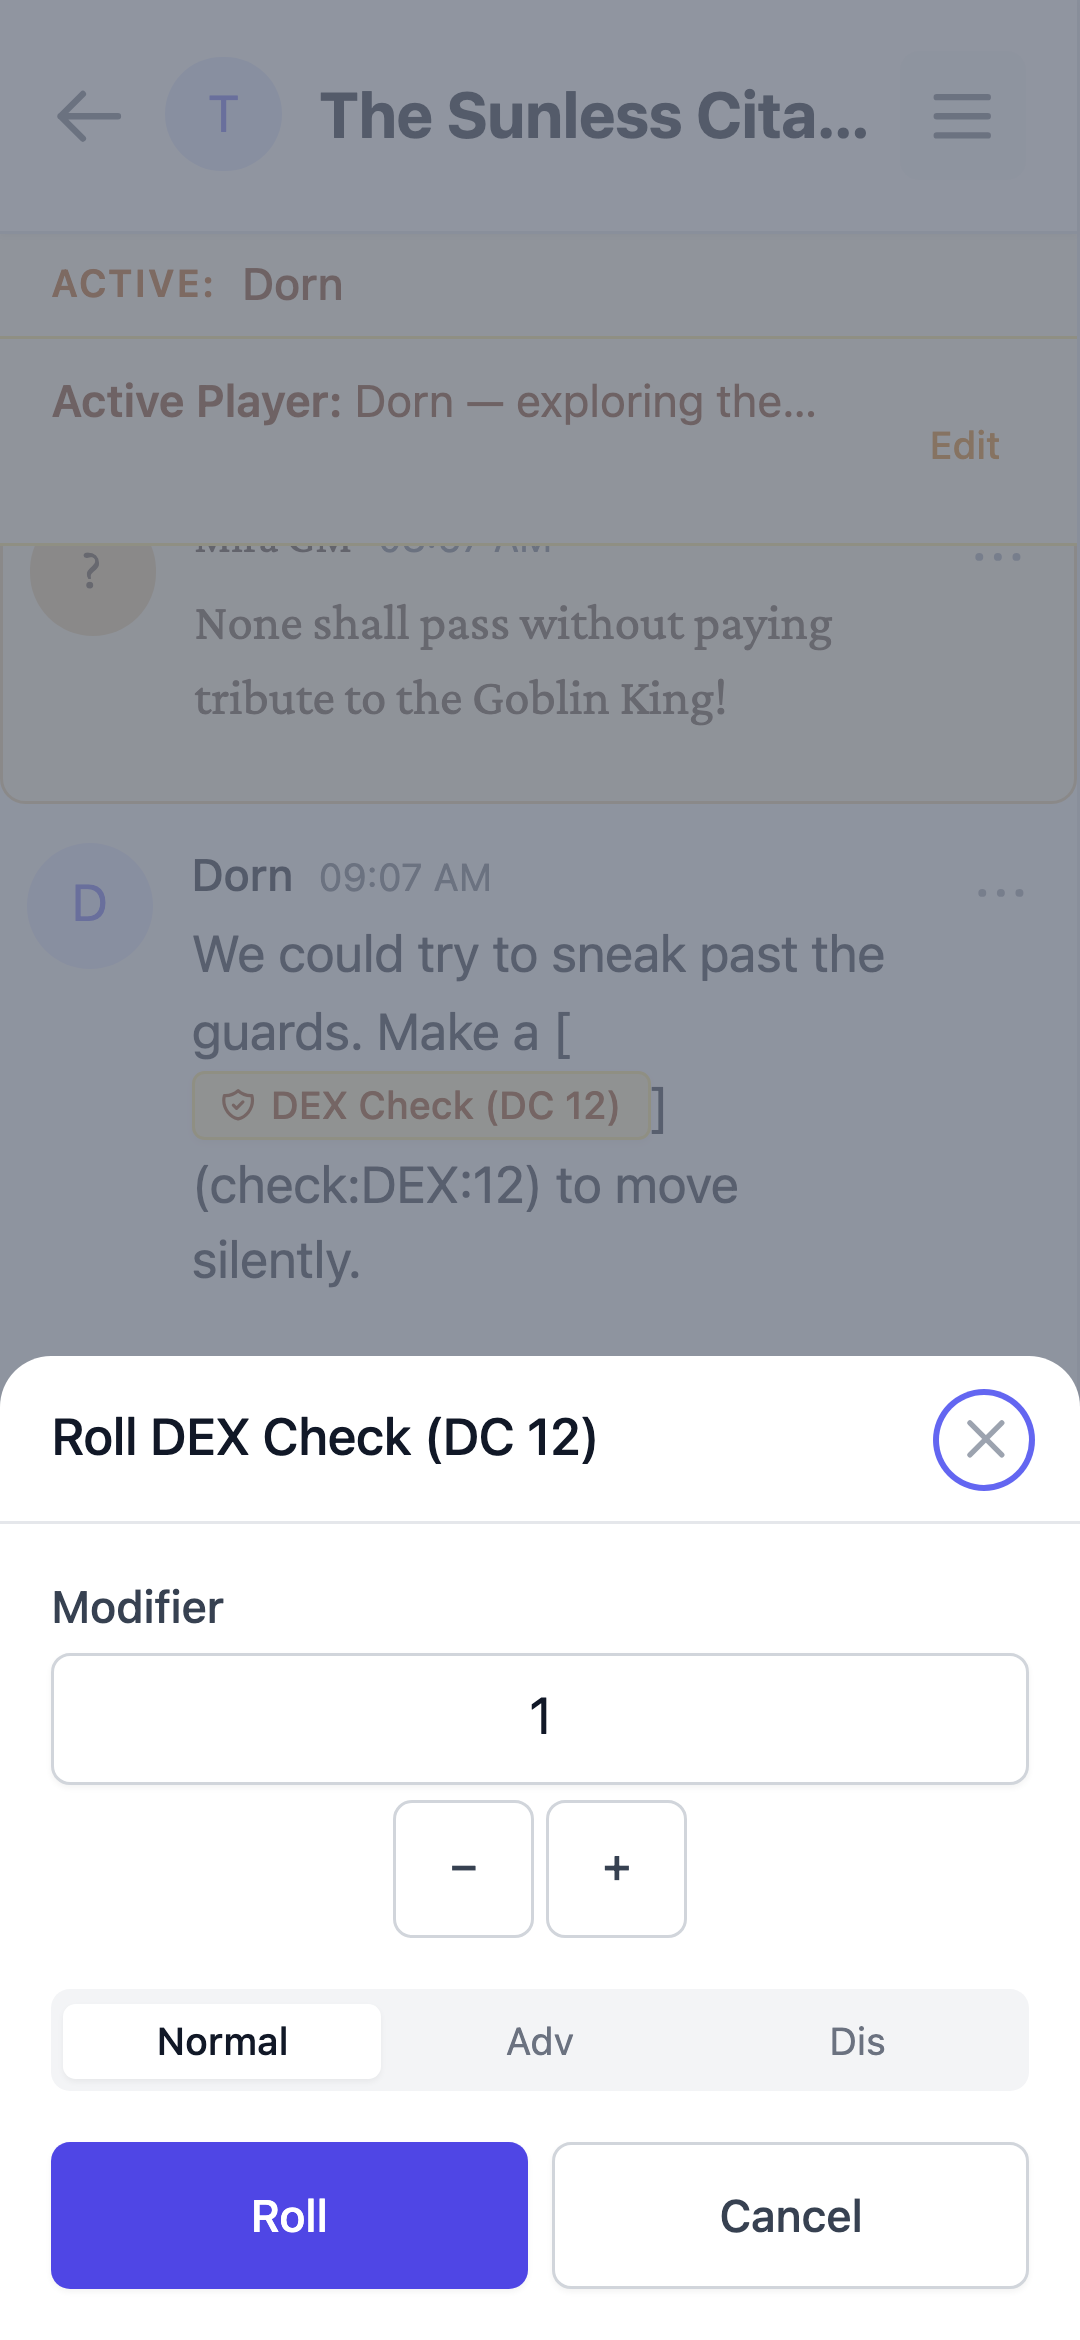
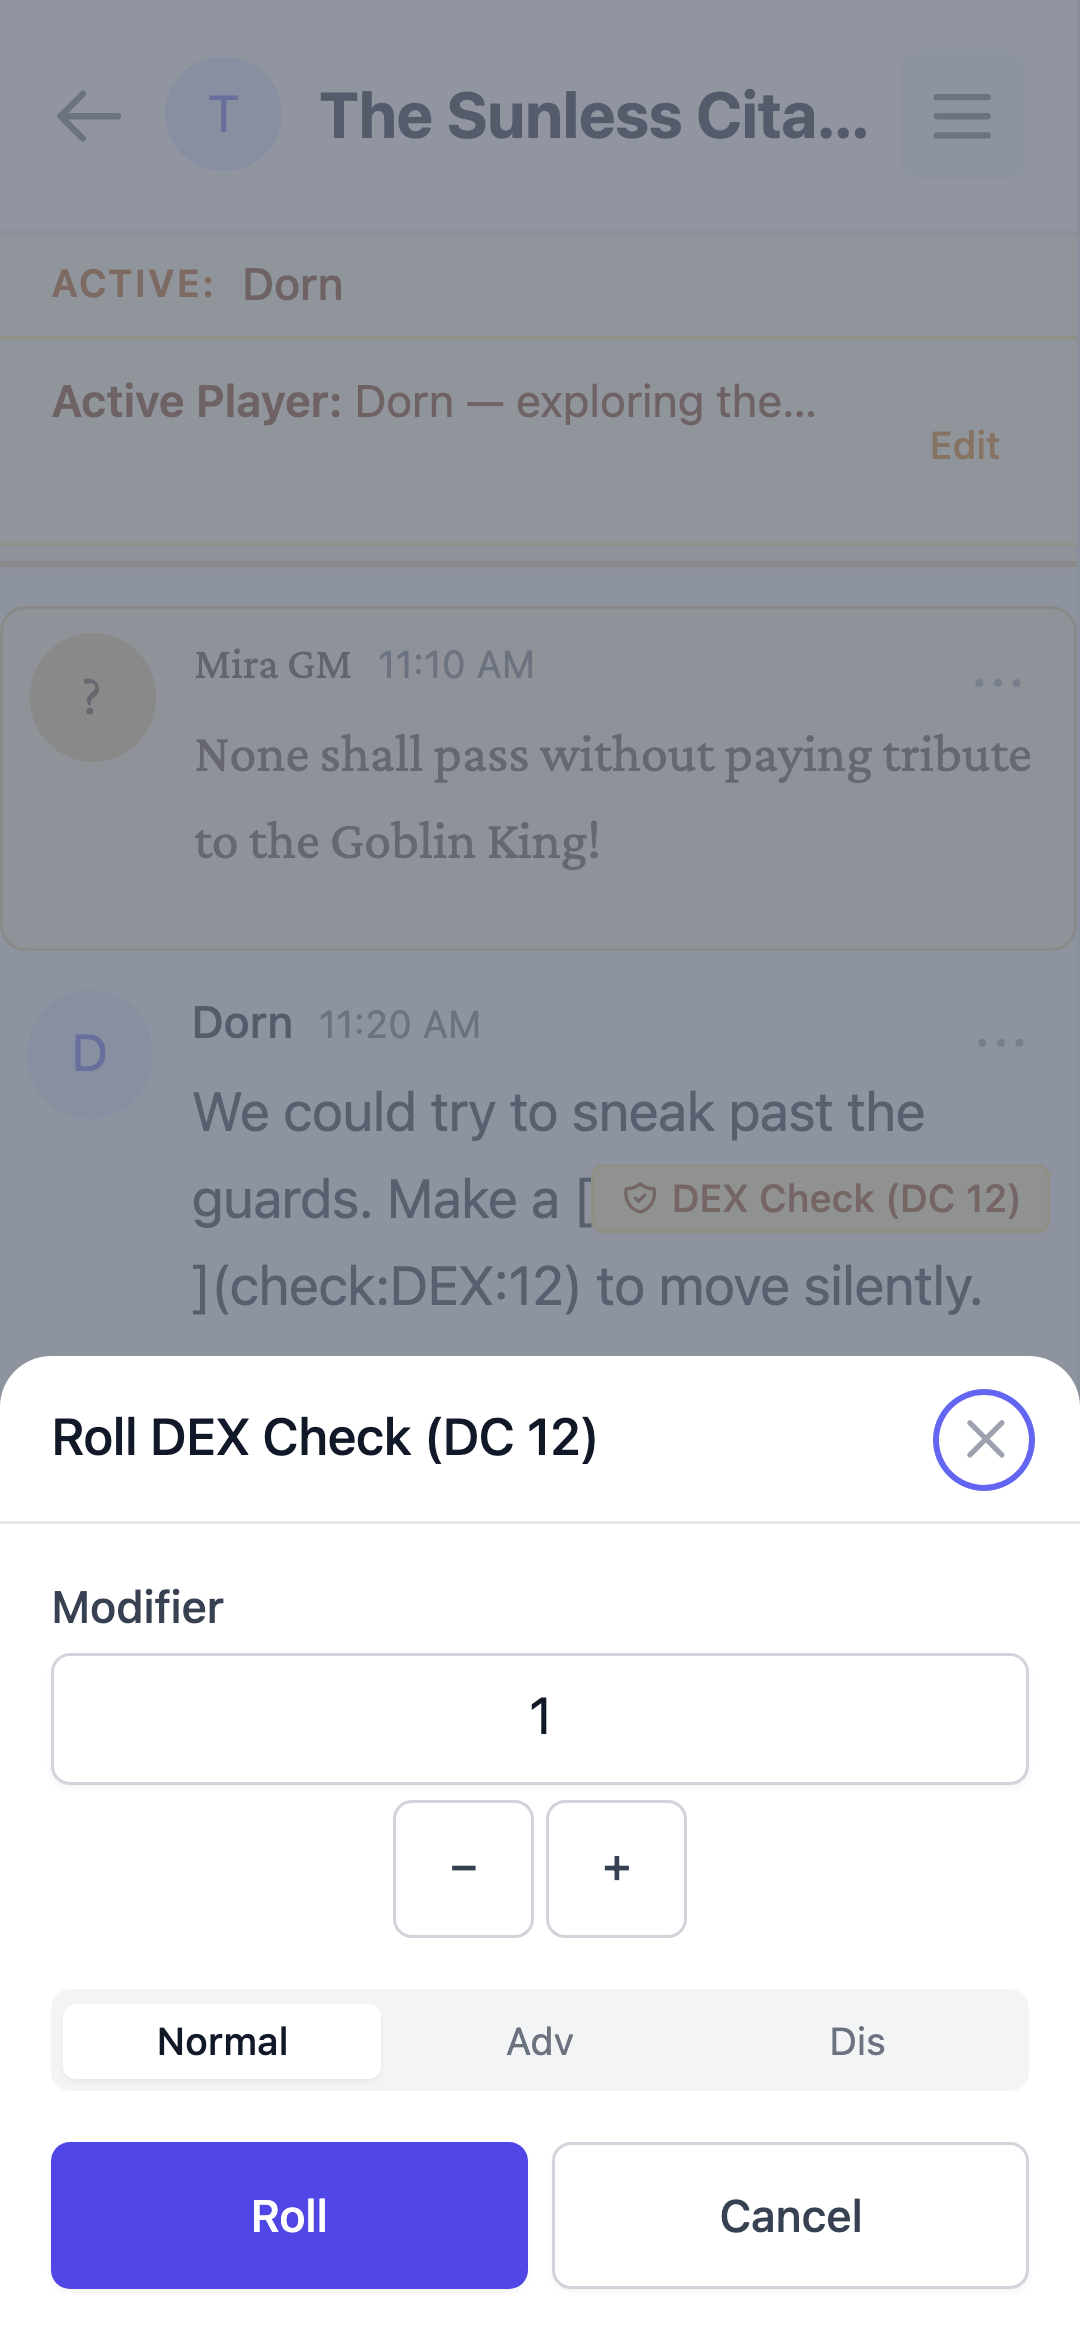
fix(#528): message text larger, rows use full width on mobile

diff --git a/src/features/chat/MessageItem.tsx b/src/features/chat/MessageItem.tsx
@@ -36,6 +36,13 @@ const MESSAGE_ACTION_SIZING = {
   desktopRowVisibility: 'hidden sm:flex',
 } as const
 
+// Message-body type scale (#528): 17px root × 1.0625 ≈ 18.06px — one step
+// above the app baseline so chat reads comfortably. `leading-relaxed` is not
+// optional: dropping `text-base` also drops its `line-height: 1.5rem`, which
+// would let the prose plugin's unitless line-height (1.714) take over and
+// jump line spacing from 25.5px to ~31px.
+const MESSAGE_BODY_TEXT = 'text-[1.0625rem] leading-relaxed'
+
 interface MessageItemProps {
   message: Message
   currentUserId: string | undefined
@@ -712,7 +719,7 @@ img: ({ node: _node, src, alt, ...props }: React.ComponentProps<'img'> & { node?
               </span>
             )}
           </div>
-          <div className="text-surface-900 dark:text-surface-100 text-base">
+          <div className={`text-surface-900 dark:text-surface-100 ${MESSAGE_BODY_TEXT}`}>
             <Markdown>{message.content}</Markdown>
           </div>
           {errorOverlay}
@@ -758,7 +765,7 @@ img: ({ node: _node, src, alt, ...props }: React.ComponentProps<'img'> & { node?
       </div>
       
       <div className="flex-1 min-w-0">
-        <div className="flex items-baseline space-x-2">
+        <div className="flex items-baseline space-x-2 pr-8 sm:pr-0">
           <span className={`text-sm font-medium ${isNpc ? 'font-serif text-parchment-ink-strong dark:text-parchment-ink-strong-dark' : 'text-surface-900 dark:text-surface-100'}`}>
             {senderName}
           </span>
@@ -777,7 +784,7 @@ img: ({ node: _node, src, alt, ...props }: React.ComponentProps<'img'> & { node?
 
         {replyBlock}
 
-        <div className={`mt-1 text-base text-surface-800 dark:text-surface-200 prose prose-sm prose-indigo dark:prose-invert max-w-none break-words ${isNpc ? 'font-serif text-parchment-ink dark:text-parchment-ink-dark prose-p:text-parchment-ink dark:prose-p:text-parchment-ink-dark prose-a:text-parchment-ink-strong dark:prose-a:text-parchment-ink-strong-dark prose-strong:text-parchment-ink-strong dark:prose-strong:text-parchment-ink-strong-dark' : ''}`}>
+        <div className={`mt-1 ${MESSAGE_BODY_TEXT} text-surface-800 dark:text-surface-200 prose prose-sm prose-indigo dark:prose-invert max-w-none break-words ${isNpc ? 'font-serif text-parchment-ink dark:text-parchment-ink-dark prose-p:text-parchment-ink dark:prose-p:text-parchment-ink-dark prose-a:text-parchment-ink-strong dark:prose-a:text-parchment-ink-strong-dark prose-strong:text-parchment-ink-strong dark:prose-strong:text-parchment-ink-strong-dark' : ''}`}>
           {message.is_deleted ? (
             <span className="text-surface-400 dark:text-surface-400 italic">This message was deleted.</span>
           ) : isEditing ? (
@@ -835,7 +842,7 @@ img: ({ node: _node, src, alt, ...props }: React.ComponentProps<'img'> & { node?
       </div>
 
       {!message.pending && !isEditing && actions.length > 0 && (
-        <div className="flex-shrink-0">
+        <div className="absolute right-2 top-2 flex-shrink-0 sm:static">
           <div className={`${MESSAGE_ACTION_SIZING.desktopRowVisibility} opacity-0 group-hover:opacity-100 focus-within:opacity-100 transition-opacity items-center`}>
             {actionIcons}
           </div>

diff --git a/src/features/chat/MessageItem.test.tsx b/src/features/chat/MessageItem.test.tsx
@@ -164,10 +164,53 @@ describe('MessageItem', () => {
     }
     render(<MessageItem message={msg} currentUserId="u1" isGM={false} onEdit={vi.fn()} onDelete={vi.fn()} />)
     // The dice card wrapper must use the normal message text scale, not a
-    // larger one (regression #500). Base message scale is text-base (#523).
+    // larger one (regression #500). Base message scale is the #528 chat scale.
     const content = screen.getByText('15').closest('div')
-    expect(content?.className).toContain('text-base')
+    expect(content?.className).toContain('text-[1.0625rem]')
+    expect(content?.className).toContain('leading-relaxed')
     expect(content?.className).not.toContain('text-lg')
+  })
+
+  it('renders the regular message body at the chat scale (#528)', () => {
+    const msg: any = {
+      type: 'regular',
+      content: '**Bold** text',
+      created_at: new Date().toISOString(),
+      sender_id: 'u2',
+      sender: { display_name: 'Hero' }
+    }
+    const { container } = render(<MessageItem message={msg} currentUserId="u1" isGM={false} onEdit={vi.fn()} onDelete={vi.fn()} onReply={vi.fn()} />)
+    // Literal chat scale (DAMP): an accidental retune of the shared constant
+    // must fail here. leading-relaxed is required — dropping text-base's
+    // 1.5rem line-height would let prose's unitless 1.714 take over.
+    const prose = container.querySelector('.prose')
+    expect(prose?.className).toContain('text-[1.0625rem]')
+    expect(prose?.className).toContain('leading-relaxed')
+    expect(prose?.className).not.toContain('text-base')
+  })
+
+  it('floats the mobile actions over the row instead of narrowing the text column (#528)', () => {
+    const msg: any = {
+      type: 'regular',
+      content: 'hi',
+      created_at: new Date().toISOString(),
+      sender_id: 'u2',
+      sender: { display_name: 'Hero' }
+    }
+    render(<MessageItem message={msg} currentUserId="u1" isGM={false} onEdit={vi.fn()} onDelete={vi.fn()} onReply={vi.fn()} />)
+    // The ⋯ button no longer reserves a flex column on mobile: it is
+    // absolutely positioned over the row's top-right, so the message column
+    // flows to the row's padded edge. Desktop keeps the icon row in flow.
+    const wrapper = screen.getByLabelText('Message actions').parentElement
+    expect(wrapper?.className).toContain('absolute')
+    expect(wrapper?.className).toContain('right-2')
+    expect(wrapper?.className).toContain('top-2')
+    expect(wrapper?.className).toContain('sm:static')
+    // Only the sender/timestamp line yields to the overlay: it reserves the
+    // 32px button width on mobile (pr-8) and nothing on desktop.
+    const meta = screen.getByText('Hero').closest('div')
+    expect(meta?.className).toContain('pr-8')
+    expect(meta?.className).toContain('sm:pr-0')
   })
 
   it('shows the reply context on a dice_roll message and jumps to the source', () => {

diff --git a/docs/CHANGELOG.md b/docs/CHANGELOG.md
@@ -13,6 +13,11 @@ All notable changes to this project are documented in this file.
 - **Chat text is bigger and easier to read** — messages, dice results, and channel names now use a larger, more comfortable size, closer to what you'd see in a messaging app.
 - **More of the screen is used for messages** — the chat and channel list waste less space at the edges, so lines of text fit better on narrow phone screens.
 
+### Fixed
+
+- **Messages use the full width of the screen** — the ⋯ menu button no longer squeezes message text into a narrow column, so more words fit on each line on a phone.
+- **Chat text is a touch larger** — messages now read slightly larger than the rest of the interface, so conversations are easier to follow.
+
 ### Removed
 
 - **The Text size option in Settings is gone** — text is now legible by default and follows your device's own text-size setting instead.
